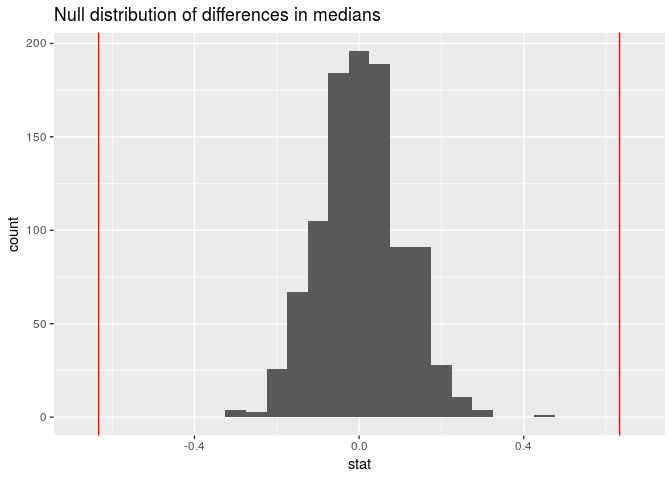
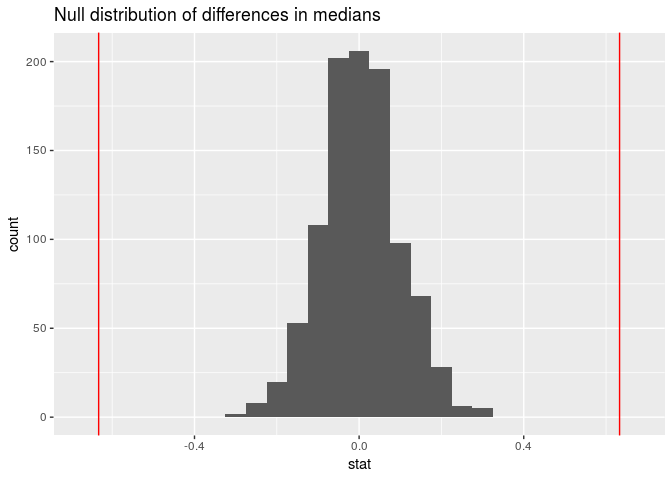
Fixes

diff --git a/RMD's/MessingWithStats.md b/RMD's/MessingWithStats.md
@@ -1,0 +1,105 @@
+Statistical Playground
+================
+
+``` r
+library(tidyverse)
+```
+
+    ## ── Attaching packages ──────────────────────────────────────────────────────────────────────── tidyverse 1.2.1 ──
+
+    ## ✔ ggplot2 3.1.0     ✔ purrr   0.2.5
+    ## ✔ tibble  2.0.0     ✔ dplyr   0.7.8
+    ## ✔ tidyr   0.8.2     ✔ stringr 1.3.1
+    ## ✔ readr   1.3.1     ✔ forcats 0.3.0
+
+    ## ── Conflicts ─────────────────────────────────────────────────────────────────────────── tidyverse_conflicts() ──
+    ## ✖ dplyr::filter() masks stats::filter()
+    ## ✖ dplyr::lag()    masks stats::lag()
+
+``` r
+library(infer)
+```
+
+``` r
+movies <- read_csv("/cloud/project/data/tmdb_5000_movies.csv")
+```
+
+    ## Parsed with column specification:
+    ## cols(
+    ##   .default = col_character(),
+    ##   budget = col_double(),
+    ##   id = col_double(),
+    ##   popularity = col_double(),
+    ##   release_date = col_date(format = ""),
+    ##   revenue = col_double(),
+    ##   runtime = col_double(),
+    ##   vote_average = col_double(),
+    ##   vote_count = col_double()
+    ## )
+
+    ## See spec(...) for full column specifications.
+
+``` r
+movies <- movies %>%
+  filter(original_language == "en")
+glimpse(movies)
+```
+
+    ## Observations: 4,505
+    ## Variables: 20
+    ## $ budget               <dbl> 2.37e+08, 3.00e+08, 2.45e+08, 2.50e+08, 2.6…
+    ## $ genres               <chr> "[{\"id\": 28, \"name\": \"Action\"}, {\"id…
+    ## $ homepage             <chr> "http://www.avatarmovie.com/", "http://disn…
+    ## $ id                   <dbl> 19995, 285, 206647, 49026, 49529, 559, 3875…
+    ## $ keywords             <chr> "[{\"id\": 1463, \"name\": \"culture clash\…
+    ## $ original_language    <chr> "en", "en", "en", "en", "en", "en", "en", "…
+    ## $ original_title       <chr> "Avatar", "Pirates of the Caribbean: At Wor…
+    ## $ overview             <chr> "In the 22nd century, a paraplegic Marine i…
+    ## $ popularity           <dbl> 150.43758, 139.08262, 107.37679, 112.31295,…
+    ## $ production_companies <chr> "[{\"name\": \"Ingenious Film Partners\", \…
+    ## $ production_countries <chr> "[{\"iso_3166_1\": \"US\", \"name\": \"Unit…
+    ## $ release_date         <date> 2009-12-10, 2007-05-19, 2015-10-26, 2012-0…
+    ## $ revenue              <dbl> 2787965087, 961000000, 880674609, 108493909…
+    ## $ runtime              <dbl> 162, 169, 148, 165, 132, 139, 100, 141, 153…
+    ## $ spoken_languages     <chr> "[{\"iso_639_1\": \"en\", \"name\": \"Engli…
+    ## $ status               <chr> "Released", "Released", "Released", "Releas…
+    ## $ tagline              <chr> "Enter the World of Pandora.", "At the end …
+    ## $ title                <chr> "Avatar", "Pirates of the Caribbean: At Wor…
+    ## $ vote_average         <dbl> 7.2, 6.9, 6.3, 7.6, 6.1, 5.9, 7.4, 7.3, 7.4…
+    ## $ vote_count           <dbl> 11800, 4500, 4466, 9106, 2124, 3576, 3330, …
+
+``` r
+movies <- movies %>%
+  filter(budget != 0 & revenue != 0) %>%
+  mutate(logbudget = log(budget))
+movies %>%
+  ggplot(mapping = aes(x = logbudget)) +
+  geom_histogram(color = "blue") +
+  labs(title = "Distribution of Movie Budgets", subtitle = "Excluding movies with zero budget",
+       x = "Log(Budget in Dollars)",y = "Number of Movies") 
+```
+
+    ## `stat_bin()` using `bins = 30`. Pick better value with `binwidth`.
+
+![](MessingWithStats_files/figure-gfm/data-wrangling-1.png)<!-- -->
+
+``` r
+movies %>%
+  select(budget, logbudget, original_title) %>%
+  arrange(budget)
+```
+
+    ## # A tibble: 3,102 x 3
+    ##    budget logbudget original_title    
+    ##     <dbl>     <dbl> <chr>             
+    ##  1      1      0    Modern Times      
+    ##  2      4      1.39 A Farewell to Arms
+    ##  3      7      1.95 Split Second      
+    ##  4      7      1.95 Bran Nue Dae      
+    ##  5      8      2.08 The Prophecy      
+    ##  6     10      2.30 Nurse 3-D         
+    ##  7     11      2.40 F.I.S.T.          
+    ##  8     25      3.22 Angela's Ashes    
+    ##  9     28      3.33 The 51st State    
+    ## 10    218      5.38 Tarnation         
+    ## # … with 3,092 more rows

diff --git a/project/project.md b/project/project.md
@@ -12,6 +12,17 @@ end. The rest is up to you\!
 
 ### Introduction
 
+The movie industry is one that accounts for billions of dollars in
+revenue and forms the keystone of the entertainment sector;
+consequently, there are a wide variety of films that have had varying
+degrees of success in the market. There are a variety of characteristics
+and factors that make up a movie – budget, director, etc. – yet none of
+these factors alone seem to have the power to drive a successful film.
+Rather, a combination of positive factors must be achieved to dominate
+the market. In this project, we will be attempting to address the
+research question of what specific factors have the most effect in
+predicting the profitability of a film.
+
 ### Stuff
 
 For our dataset of 5000 movies, we decided to remove the variables id,
@@ -141,7 +152,7 @@ in median pratio.
     ## # A tibble: 1 x 2
     ##    lower upper
     ##    <dbl> <dbl>
-    ## 1 -0.297 0.365
+    ## 1 -0.274 0.381
 
 We found the p-value to be 0, thus it proved to be significantly
 significant, which we then could accept the null hypothesis that the
@@ -168,12 +179,12 @@ Add narrative about why we chose action:
     ## # A tibble: 1 x 1
     ##   pvalue
     ##    <dbl>
-    ## 1  0.072
+    ## 1  0.108
 
     ## # A tibble: 1 x 2
     ##    lower upper
     ##    <dbl> <dbl>
-    ## 1 -0.200 0.241
+    ## 1 -0.202 0.225
 
 Add narrative about p-value and confidence
     intervals:
@@ -195,7 +206,7 @@ Add narrative about p-value and confidence
     ## # A tibble: 1 x 1
     ##   pvalue
     ##    <dbl>
-    ## 1  0.012
+    ## 1  0.008
 
 ### Making a variable for holiday releases
 
@@ -251,7 +262,7 @@ Add what the null hypothesis is:
     ## # A tibble: 1 x 2
     ##    lower upper
     ##    <dbl> <dbl>
-    ## 1 -0.184 0.208
+    ## 1 -0.183 0.198
 
 Add narrative about confidence interval and p-value:
 
